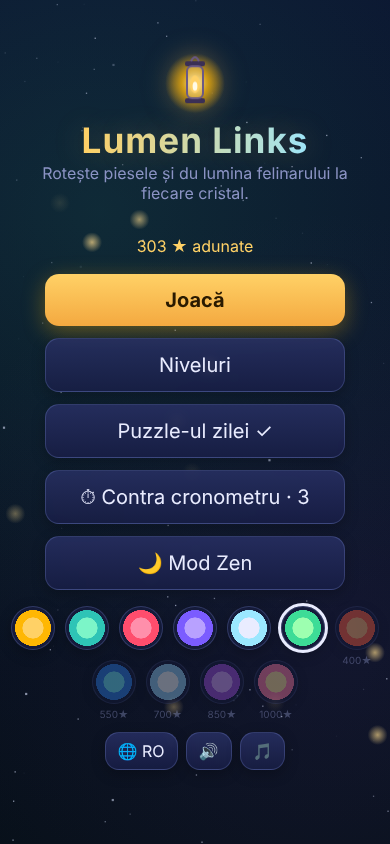
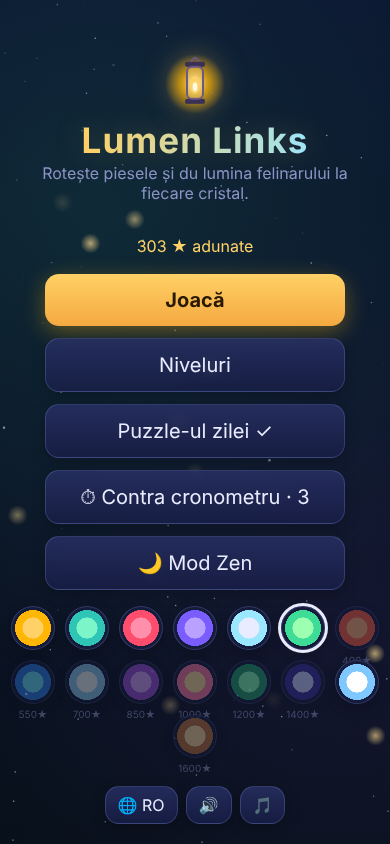
Lumen Links v2.4: culorile de iarnă Ninsoare (160 ★) și Turtă dulce (1600 ★) cu ninsoare pe fundal, culori compacte pe ecrane mici, teste v24
Claude-Session: https://claude.ai/code/session_01YQDvpnjDbHYKiAcLdt87yp

diff --git a/lumen/index.html b/lumen/index.html
@@ -44,6 +44,7 @@ button:disabled{opacity:.4}
 #pals button{width:44px;height:44px;padding:0;border-radius:50%;position:relative}
 #pals button.sel{outline:3px solid var(--ink)}
 #pals button small{position:absolute;bottom:-17px;left:0;right:0;font-size:10px;color:var(--dim)}
+@media (max-height:720px){#pals{gap:8px 7px}#pals button{width:34px;height:34px}} /* v2.4: culorile încap pe ecrane mici */
 #bg{position:fixed;inset:0;width:100%;height:100%;display:block;z-index:0}
 #app{z-index:1}
 #logo{width:64px;height:64px;margin-top:6vh;filter:drop-shadow(0 0 14px rgba(255,190,80,.55));animation:bob 3.2s ease-in-out infinite}
@@ -106,9 +107,9 @@ button.pri{box-shadow:0 6px 22px rgba(255,183,3,.35)}
 "use strict";
 // ---------- Texte ----------
 const T = {
-  en: { tag: "Rotate the tiles and lead the lantern light to every crystal.", play: "Play", cont: "Continue · level {n}", levels: "Levels", daily: "Daily puzzle", dailyDone: "Daily puzzle ✓", level: "Level {n}", dailyT: "Daily {d}", moves: "Moves: {m} · par {p}", solved: "Solved!", next: "Next level", menu: "Menu", again: "Play again", hint: "Hint", noHints: "No hints left. Solve a level to earn one.", watch: "Watch ad: +3 hints", gotHints: "+3 hints", locked: "Unlock with {n} ★", lang: "EN", palette: "Colors", total: "{n} ★ collected", dailyBonus: "Daily bonus: +2 hints", tut: "Tap a tile to rotate it. Light every crystal.", rush: "Time rush", rushT: "Rush · {n} solved", time: "Time {s}s · par {p}", rushEnd: "Time's up!", rushScore: "Puzzles solved: {n}", rushBest: "Best: {n}", newBest: "New record!", streak: "Streak: {n} days", zen: "Zen mode", zenT: "Zen · {n} solved", zenS: "No timer, no moves count · 5 solved = +1 hint", zenHint: "Zen: +1 hint", whatsNew: "New in v{v}: Emerald (1200 ★) and Midnight (1400 ★) colors. Still here: 5 worlds, locked and twin tiles", worlds: "Worlds", w0: "Lantern Woods", w1: "Crystal Caves", w2: "Moon Lake", w3: "Aurora Peaks", w4: "Star Sea", wIntro: "World {w}: {name}", mLock: "New: locked tiles can't turn. Build around them.", mTwin: "New: twin tiles (same mark) turn together.", mBoth: "Locked and twin tiles together. Think ahead!", mBig: "Bigger boards, every tile type. Shine on!", lockedTile: "This tile is locked", music: "Music", tapHere: "Tap here" },
-  ro: { tag: "Rotește piesele și du lumina felinarului la fiecare cristal.", play: "Joacă", cont: "Continuă · nivelul {n}", levels: "Niveluri", daily: "Puzzle-ul zilei", dailyDone: "Puzzle-ul zilei ✓", level: "Nivelul {n}", dailyT: "Ziua {d}", moves: "Mutări: {m} · țintă {p}", solved: "Rezolvat!", next: "Nivelul următor", menu: "Meniu", again: "Încă o dată", hint: "Indiciu", noHints: "Nu mai ai indicii. Rezolvă un nivel ca să primești unul.", watch: "Reclamă: +3 indicii", gotHints: "+3 indicii", locked: "Se deblochează la {n} ★", lang: "RO", palette: "Culori", total: "{n} ★ adunate", dailyBonus: "Bonusul zilei: +2 indicii", tut: "Atinge o piesă ca s-o rotești. Aprinde toate cristalele.", rush: "Contra cronometru", rushT: "Cronometru · {n} rezolvate", time: "Timp {s}s · țintă {p}", rushEnd: "Timpul a expirat!", rushScore: "Puzzle-uri rezolvate: {n}", rushBest: "Record: {n}", newBest: "Record nou!", streak: "Serie: {n} zile", zen: "Mod Zen", zenT: "Zen · {n} rezolvate", zenS: "Fără cronometru, fără mutări numărate · 5 rezolvate = +1 indiciu", zenHint: "Zen: +1 indiciu", whatsNew: "Noutăți v{v}: culorile Smarald (1200 ★) și Miez de noapte (1400 ★). Plus: 5 lumi, piese blocate și gemene", worlds: "Lumi", w0: "Pădurea felinarelor", w1: "Peșterile de cristal", w2: "Lacul lunii", w3: "Piscurile aurorei", w4: "Marea de stele", wIntro: "Lumea {w}: {name}", mLock: "Nou: piesele blocate nu se rotesc. Construiește în jurul lor.", mTwin: "Nou: piesele gemene (același semn) se rotesc împreună.", mBoth: "Piese blocate și gemene împreună. Gândește înainte!", mBig: "Table mai mari, toate tipurile de piese. Strălucește!", lockedTile: "Piesa e blocată", music: "Muzică", tapHere: "Atinge aici" },
-  ru: { tag: "Поворачивайте плитки и ведите свет фонаря к каждому кристаллу.", play: "Играть", cont: "Продолжить · уровень {n}", levels: "Уровни", daily: "Головоломка дня", dailyDone: "Головоломка дня ✓", level: "Уровень {n}", dailyT: "День {d}", moves: "Ходы: {m} · цель {p}", solved: "Готово!", next: "Следующий уровень", menu: "Меню", again: "Ещё раз", hint: "Подсказка", noHints: "Подсказок нет. Пройдите уровень, чтобы получить одну.", watch: "Реклама: +3 подсказки", gotHints: "+3 подсказки", locked: "Открывается за {n} ★", lang: "RU", palette: "Цвета", total: "Собрано {n} ★", dailyBonus: "Бонус дня: +2 подсказки", tut: "Нажмите на плитку, чтобы повернуть. Зажгите все кристаллы.", rush: "На время", rushT: "На время · решено {n}", time: "Время {s}с · цель {p}", rushEnd: "Время вышло!", rushScore: "Решено головоломок: {n}", rushBest: "Рекорд: {n}", newBest: "Новый рекорд!", streak: "Серия: {n} дн.", zen: "Режим дзен", zenT: "Дзен · решено {n}", zenS: "Без таймера и подсчёта ходов · 5 решённых = +1 подсказка", zenHint: "Дзен: +1 подсказка", whatsNew: "Новое в v{v}: цвета «Изумруд» (1200 ★) и «Полночь» (1400 ★). А также: 5 миров, закреплённые плитки и близнецы", worlds: "Миры", w0: "Лес фонарей", w1: "Хрустальные пещеры", w2: "Лунное озеро", w3: "Пики сияния", w4: "Звёздное море", wIntro: "Мир {w}: {name}", mLock: "Новое: закреплённые плитки не вращаются.", mTwin: "Новое: плитки-близнецы (одинаковый знак) вращаются вместе.", mBoth: "Закреплённые плитки и близнецы вместе. Думайте наперёд!", mBig: "Большие поля и все виды плиток. Сияйте!", lockedTile: "Плитка закреплена", music: "Музыка", tapHere: "Нажмите сюда" },
+  en: { tag: "Rotate the tiles and lead the lantern light to every crystal.", play: "Play", cont: "Continue · level {n}", levels: "Levels", daily: "Daily puzzle", dailyDone: "Daily puzzle ✓", level: "Level {n}", dailyT: "Daily {d}", moves: "Moves: {m} · par {p}", solved: "Solved!", next: "Next level", menu: "Menu", again: "Play again", hint: "Hint", noHints: "No hints left. Solve a level to earn one.", watch: "Watch ad: +3 hints", gotHints: "+3 hints", locked: "Unlock with {n} ★", lang: "EN", palette: "Colors", total: "{n} ★ collected", dailyBonus: "Daily bonus: +2 hints", tut: "Tap a tile to rotate it. Light every crystal.", rush: "Time rush", rushT: "Rush · {n} solved", time: "Time {s}s · par {p}", rushEnd: "Time's up!", rushScore: "Puzzles solved: {n}", rushBest: "Best: {n}", newBest: "New record!", streak: "Streak: {n} days", zen: "Zen mode", zenT: "Zen · {n} solved", zenS: "No timer, no moves count · 5 solved = +1 hint", zenHint: "Zen: +1 hint", whatsNew: "New in v{v}: winter colors Snowfall (160 ★) and Gingerbread (1600 ★) — with snow falling in the background ❄", worlds: "Worlds", w0: "Lantern Woods", w1: "Crystal Caves", w2: "Moon Lake", w3: "Aurora Peaks", w4: "Star Sea", wIntro: "World {w}: {name}", mLock: "New: locked tiles can't turn. Build around them.", mTwin: "New: twin tiles (same mark) turn together.", mBoth: "Locked and twin tiles together. Think ahead!", mBig: "Bigger boards, every tile type. Shine on!", lockedTile: "This tile is locked", music: "Music", tapHere: "Tap here" },
+  ro: { tag: "Rotește piesele și du lumina felinarului la fiecare cristal.", play: "Joacă", cont: "Continuă · nivelul {n}", levels: "Niveluri", daily: "Puzzle-ul zilei", dailyDone: "Puzzle-ul zilei ✓", level: "Nivelul {n}", dailyT: "Ziua {d}", moves: "Mutări: {m} · țintă {p}", solved: "Rezolvat!", next: "Nivelul următor", menu: "Meniu", again: "Încă o dată", hint: "Indiciu", noHints: "Nu mai ai indicii. Rezolvă un nivel ca să primești unul.", watch: "Reclamă: +3 indicii", gotHints: "+3 indicii", locked: "Se deblochează la {n} ★", lang: "RO", palette: "Culori", total: "{n} ★ adunate", dailyBonus: "Bonusul zilei: +2 indicii", tut: "Atinge o piesă ca s-o rotești. Aprinde toate cristalele.", rush: "Contra cronometru", rushT: "Cronometru · {n} rezolvate", time: "Timp {s}s · țintă {p}", rushEnd: "Timpul a expirat!", rushScore: "Puzzle-uri rezolvate: {n}", rushBest: "Record: {n}", newBest: "Record nou!", streak: "Serie: {n} zile", zen: "Mod Zen", zenT: "Zen · {n} rezolvate", zenS: "Fără cronometru, fără mutări numărate · 5 rezolvate = +1 indiciu", zenHint: "Zen: +1 indiciu", whatsNew: "Noutăți v{v}: culorile de iarnă Ninsoare (160 ★) și Turtă dulce (1600 ★) — cu fulgi care cad pe fundal ❄", worlds: "Lumi", w0: "Pădurea felinarelor", w1: "Peșterile de cristal", w2: "Lacul lunii", w3: "Piscurile aurorei", w4: "Marea de stele", wIntro: "Lumea {w}: {name}", mLock: "Nou: piesele blocate nu se rotesc. Construiește în jurul lor.", mTwin: "Nou: piesele gemene (același semn) se rotesc împreună.", mBoth: "Piese blocate și gemene împreună. Gândește înainte!", mBig: "Table mai mari, toate tipurile de piese. Strălucește!", lockedTile: "Piesa e blocată", music: "Muzică", tapHere: "Atinge aici" },
+  ru: { tag: "Поворачивайте плитки и ведите свет фонаря к каждому кристаллу.", play: "Играть", cont: "Продолжить · уровень {n}", levels: "Уровни", daily: "Головоломка дня", dailyDone: "Головоломка дня ✓", level: "Уровень {n}", dailyT: "День {d}", moves: "Ходы: {m} · цель {p}", solved: "Готово!", next: "Следующий уровень", menu: "Меню", again: "Ещё раз", hint: "Подсказка", noHints: "Подсказок нет. Пройдите уровень, чтобы получить одну.", watch: "Реклама: +3 подсказки", gotHints: "+3 подсказки", locked: "Открывается за {n} ★", lang: "RU", palette: "Цвета", total: "Собрано {n} ★", dailyBonus: "Бонус дня: +2 подсказки", tut: "Нажмите на плитку, чтобы повернуть. Зажгите все кристаллы.", rush: "На время", rushT: "На время · решено {n}", time: "Время {s}с · цель {p}", rushEnd: "Время вышло!", rushScore: "Решено головоломок: {n}", rushBest: "Рекорд: {n}", newBest: "Новый рекорд!", streak: "Серия: {n} дн.", zen: "Режим дзен", zenT: "Дзен · решено {n}", zenS: "Без таймера и подсчёта ходов · 5 решённых = +1 подсказка", zenHint: "Дзен: +1 подсказка", whatsNew: "Новое в v{v}: зимние цвета «Снегопад» (160 ★) и «Пряник» (1600 ★) — со снегом на фоне ❄", worlds: "Миры", w0: "Лес фонарей", w1: "Хрустальные пещеры", w2: "Лунное озеро", w3: "Пики сияния", w4: "Звёздное море", wIntro: "Мир {w}: {name}", mLock: "Новое: закреплённые плитки не вращаются.", mTwin: "Новое: плитки-близнецы (одинаковый знак) вращаются вместе.", mBoth: "Закреплённые плитки и близнецы вместе. Думайте наперёд!", mBig: "Большие поля и все виды плиток. Сияйте!", lockedTile: "Плитка закреплена", music: "Музыка", tapHere: "Нажмите сюда" },
 };
 const LANGS = ["en", "ro", "ru"];
 const PLATFORM = window.GAME_PLATFORM || "web";
@@ -120,7 +121,7 @@ function detectLang() {
 const t = (k, v = {}) => (T[S.lang][k] || T.en[k]).replace(/\{(\w+)\}/g, (_, x) => v[x]);
 
 // ---------- Salvare ----------
-const KEY = "lumen-links-v1", VERSION = "2.3";
+const KEY = "lumen-links-v1", VERSION = "2.4";
 let S = { lang: detectLang(), sound: true, level: 1, stars: {}, daily: {}, hints: 3, pal: 0, tut: false, rushBest: 0, streak: { n: 0, last: "" }, zen: 0, seen: null, music: true, worldSeen: 0 };
 // Store = localStorage; pe CrazyGames se înlocuiește cu Data Module din SDK (salvare legată de cont)
 let Store = null; try { Store = window.localStorage; } catch (e) {}
@@ -147,6 +148,8 @@ const PALS = [
   { need: 1000, lit: "#ffe29a", glow: "#ff7aa2", crystal: "#8ef6e4" }, // Răsărit (v2.2)
   { need: 1200, lit: "#7dffb2", glow: "#1fa36b", crystal: "#e8fff3" }, // Smarald (v2.3)
   { need: 1400, lit: "#c7d2ff", glow: "#3a2e9e", crystal: "#ffe7f7" }, // Miez de noapte (v2.3)
+  { need: 160, lit: "#ffffff", glow: "#7fc8ff", crystal: "#ffd1e8", snow: true }, // Ninsoare (v2.4): ninge pe fundal
+  { need: 1600, lit: "#ffd9a0", glow: "#c0703a", crystal: "#fff4e6", snow: true }, // Turtă dulce (v2.4)
 ];
 const pal = () => PALS[S.pal] || PALS[0];
 
@@ -570,6 +573,7 @@ cvs.addEventListener("pointerdown", e => {
 });
 cvs.addEventListener("contextmenu", e => e.preventDefault());
 const STARS = Array.from({ length: 110 }, (_, i) => { const r = rng(i + 7); return [r(), r(), r(), r()]; });
+const SNOW = Array.from({ length: 70 }, (_, i) => { const r = rng(i + 4242); return [r(), r(), r() * 6.28, 0.4 + r() * 0.6]; }); // v2.4
 const FLIES = Array.from({ length: 14 }, (_, i) => { const r = rng(i + 991); return [r(), r(), r() * 6.28, 0.3 + r() * 0.7]; });
 const ease = x => 1 - Math.pow(1 - x, 3);
 // Efecte: particule, unde la atingere, undă de lumină la rezolvare
@@ -604,6 +608,9 @@ function drawBg(now) {
   for (const f of FLIES) { const x = (f[0] * W + Math.sin(t * f[3] + f[2]) * 40 + t * 6 * f[3]) % W, y = (f[1] * H + Math.cos(t * f[3] * 0.8 + f[2]) * 30) % H;
     const a = 0.35 + 0.35 * Math.sin(t * 2 * f[3] + f[2]); const rg = bctx.createRadialGradient(x, y, 0, x, y, 10);
     rg.addColorStop(0, `rgba(255,220,140,${a})`); rg.addColorStop(1, "rgba(255,220,140,0)"); bctx.fillStyle = rg; bctx.fillRect(x - 10, y - 10, 20, 20); }
+  if (pal().snow) { bctx.fillStyle = "rgba(240,246,255,.75)"; // v2.4: ninsoare pentru culorile de iarnă
+    for (const f of SNOW) { const x = ((f[0] * W + Math.sin(t * 0.7 * f[3] + f[2]) * 24) % W + W) % W, y = (f[1] * H + t * 28 * f[3]) % (H + 10) - 5;
+      bctx.beginPath(); bctx.arc(x, y, 0.8 + f[3] * 2, 0, 6.283); bctx.fill(); } }
 }
 let lastT = 0;
 function draw(now) {

diff --git a/lumen/tests/v24.js b/lumen/tests/v24.js
@@ -1,0 +1,51 @@
+// Teste Lumen Links v2.4 (culorile de iarnă Ninsoare și Turtă dulce, ninsoare pe fundal, Noutăți o dată, migrare): node lumen/tests/v24.js
+const { chromium } = require('playwright');
+const path = require('path');
+const URL = 'file://' + path.resolve(__dirname, '..', 'index.html');
+const KEY = 'lumen-links-v1';
+let fails = 0;
+const ok = (c, m) => { console.log((c ? 'PASS ' : 'FAIL ') + m); if (!c) fails++; };
+(async () => {
+  const b = await chromium.launch(process.env.CHROME_PATH ? { executablePath: process.env.CHROME_PATH } : {});
+  const errs = [];
+  const page = async (locale, save, vp = { width: 390, height: 844 }) => {
+    const p = await (await b.newContext({ viewport: vp, locale })).newPage();
+    p.on('pageerror', e => errs.push(e.message)); p.on('console', m => m.type() === 'error' && errs.push(m.text()));
+    if (save) await p.addInitScript(([k, v]) => { if (!sessionStorage.getItem('init')) { sessionStorage.setItem('init', 1); localStorage.setItem(k, v); } }, [KEY, JSON.stringify(save)]);
+    await p.goto(URL); await p.waitForTimeout(300); return p;
+  };
+  // 1. salvare veche v2.3: 60 de niveluri cu 3 stele = 180 ★, paleta Miez de noapte nu e deținută
+  const stars = {}; for (let n = 1; n <= 60; n++) stars[n] = 3;
+  const old = { lang: 'ro', sound: false, level: 61, stars, daily: {}, hints: 5, pal: 4, tut: true, rushBest: 9, streak: { n: 2, last: '' }, zen: 3, seen: '2.3', music: false, worldSeen: 2 };
+  const p = await page('ro-RO', old);
+  ok(await p.evaluate(() => VERSION === '2.4' && PALS.length === 15), 'v2.4: VERSION 2.4 și 15 palete');
+  ok(await p.evaluate(() => PALS[13].need === 160 && PALS[13].snow && PALS[14].need === 1600 && PALS[14].snow), 'v2.4: Ninsoare (160 ★) și Turtă dulce (1600 ★) cu ninsoare');
+  ok(await p.evaluate(() => S.level === 61 && totalStars() === 180 && S.pal === 4 && S.rushBest === 9 && S.zen === 3 && S.sound === false && S.hints === 5), 'migrare: progresul v2.3 se păstrează');
+  await p.waitForTimeout(700);
+  ok(await p.evaluate(() => document.getElementById('toast').textContent.includes('Ninsoare') && document.getElementById('toast').textContent.includes('2.4')), 'Noutăți v2.4 apar pentru jucătorul vechi (RO)');
+  ok(await p.evaluate(() => JSON.parse(localStorage.getItem('lumen-links-v1')).seen === '2.4' || S.seen === '2.4'), 'Noutăți: versiunea văzută se salvează');
+  ok(!(await p.$eval('#pals button[data-p="13"]', e => e.disabled)), 'Ninsoare deblocată la 180 ★');
+  ok(await p.$eval('#pals button[data-p="14"]', e => e.disabled), 'Turtă dulce blocată sub 1600 ★');
+  await p.click('#pals button[data-p="13"]');
+  ok(await p.evaluate(() => S.pal === 13 && pal().snow), 'Ninsoare se alege');
+  ok(await p.evaluate(() => { for (let i = 0; i < 4; i++) drawBg(1000 + i * 700); return true; }), 'desenarea fundalului cu ninsoare fără erori');
+  await p.reload(); await p.waitForTimeout(1200);
+  ok(await p.evaluate(() => S.pal === 13 && !document.getElementById('toast').textContent.includes('Ninsoare')), 'alegerea se păstrează, Noutăți nu mai apar a doua oară');
+  await p.evaluate(() => { for (let n = 1; n <= 540; n++) S.stars[n] = 3; renderMenu(); });
+  await p.click('#pals button[data-p="14"]');
+  ok(await p.evaluate(() => S.pal === 14 && pal().need === 1600), 'Turtă dulce se alege la 1620 ★');
+  // 2. jucător nou: fără Noutăți
+  const n = await page('en-US'); await n.waitForTimeout(700);
+  ok(await n.evaluate(() => !document.getElementById('toast').textContent.includes('Snowfall')), 'jucător nou: fără mesaj Noutăți');
+  // 3. trei limbi
+  ok(await n.evaluate(() => ['en', 'ro', 'ru'].every(l => T[l].whatsNew.includes('{v}') && T[l].whatsNew.includes('160') && T[l].whatsNew.includes('1600'))), 'Noutăți în RO/EN/RU');
+  const r = await page('ru-RU', Object.assign({}, old, { lang: 'ru' })); await r.waitForTimeout(700);
+  ok(await r.evaluate(() => document.getElementById('toast').textContent.includes('Снегопад')), 'Noutăți afișate în RU');
+  // 4. ecran mic: culorile încap
+  const s = await page('en-US', old, { width: 360, height: 640 });
+  ok(await s.evaluate(() => document.querySelector('#pals button:last-child').getBoundingClientRect().bottom <= document.getElementById('menu').scrollHeight), '360x640: rândul de culori se randează');
+  ok(errs.length === 0, 'fără erori JS ' + errs.join('|'));
+  await b.close();
+  console.log(fails ? `\n${fails} teste au eșuat` : '\nToate testele au trecut');
+  process.exit(fails ? 1 : 0);
+})();

diff --git a/lumen/tests/v12.js b/lumen/tests/v12.js
@@ -53,7 +53,7 @@ async function solveByClicks(p) {
   await p2.addInitScript(() => { if (!sessionStorage.m) { sessionStorage.m = 1;
     localStorage.setItem('lumen-links-v1', JSON.stringify({ lang: 'en', sound: true, level: 7, stars: { 1: 3 }, daily: {}, hints: 2, pal: 0, tut: true, rushBest: 4, streak: { n: 1, last: '' } })); } });
   await p2.goto(URL); await p2.waitForTimeout(900);
-  ok(await p2.evaluate(() => document.getElementById('toast').textContent.includes('5 worlds') && S.level === 7 && S.rushBest === 4 && S.zen === 0), 'v1.2: migrare v1.1 + mesaj Noutăți');
+  ok(await p2.evaluate(() => document.getElementById('toast').textContent.includes('v' + VERSION) && S.level === 7 && S.rushBest === 4 && S.zen === 0), 'v1.2: migrare v1.1 + mesaj Noutăți');
   ok(await p2.evaluate(() => { const r = document.getElementById('bSound').getBoundingClientRect(); return r.bottom <= innerHeight; }), 'v1.2: meniul încape pe ecran 360x640');
   ok(errs.length === 0, 'v1.2: fără erori JS ' + errs.join('|'));
   await b.close();

diff --git a/lumen/tests/v23.js b/lumen/tests/v23.js
@@ -11,7 +11,7 @@ const ok = (c, m) => { console.log((c ? 'PASS ' : 'FAIL ') + m); if (!c) fails++
   p.on('pageerror', e => errs.push(e.message)); p.on('console', m => m.type() === 'error' && errs.push(m.text()));
   await p.goto(URL); await p.waitForTimeout(200);
   ok(await p.evaluate(() => VERSION >= '2.2' && PALS.length >= 11 && PALS[9].need === 850 && PALS[10].need === 1000), 'v2.3: paletele Ametist (850 ★) și Răsărit (1000 ★)');
-    ok(await p.evaluate(() => ['en', 'ro', 'ru'].every(l => T[l].whatsNew.includes('1200') && T[l].whatsNew.includes('1400'))), 'v2.3: mesaj Noutăți RO/EN/RU');
+    ok(await p.evaluate(() => ['en', 'ro', 'ru'].every(l => T[l].whatsNew.includes('{v}'))), 'v2.3: mesaj Noutăți RO/EN/RU');
   ok(await p.$eval('#pals button[data-p="12"]', e => e.disabled), 'v2.3: blocată fără stele');
   await p.evaluate(() => { for (let n = 1; n <= 480; n++) S.stars[n] = 3; renderMenu(); });
   await p.click('#pals button[data-p="12"]');

diff --git a/lumen/UPDATE-v24.md b/lumen/UPDATE-v24.md
@@ -1,0 +1,12 @@
+# Lumen Links v2.4 — note de versiune (decembrie 2026)
+
+Teste: `node lumen/tests/v24.js` (16: culori noi, migrare salvare v2.3, Noutăți o singură dată, RO/EN/RU, ecran 360x640, fără erori JS). Testele vechi v1.2/v2.3 au doar verificarea textului Noutăți relaxată; rândul de culori e mai compact pe ecrane scurte, așa că testele „meniul încape pe 360x640” trec din nou.
+
+**EN (Amazon „What's new” / itch devlog / GamePix):**
+v2.4 — Winter colors! Snowfall (160 ★) and Gingerbread (1600 ★) bring gentle snow falling behind the puzzles. The color picker is also more compact on small screens. Your levels, stars and streak are kept.
+
+**RO:**
+v2.4 — Culori de iarnă! Ninsoare (160 ★) și Turtă dulce (1600 ★) aduc fulgi care cad lin în spatele puzzle-urilor. Alegerea culorilor e mai compactă pe ecranele mici. Nivelurile, stelele și seria se păstrează.
+
+**RU:**
+v2.4 — Зимние цвета! «Снегопад» (160 ★) и «Пряник» (1600 ★) — за головоломками тихо падает снег. Выбор цветов стал компактнее на маленьких экранах. Уровни, звёзды и серия сохраняются.
